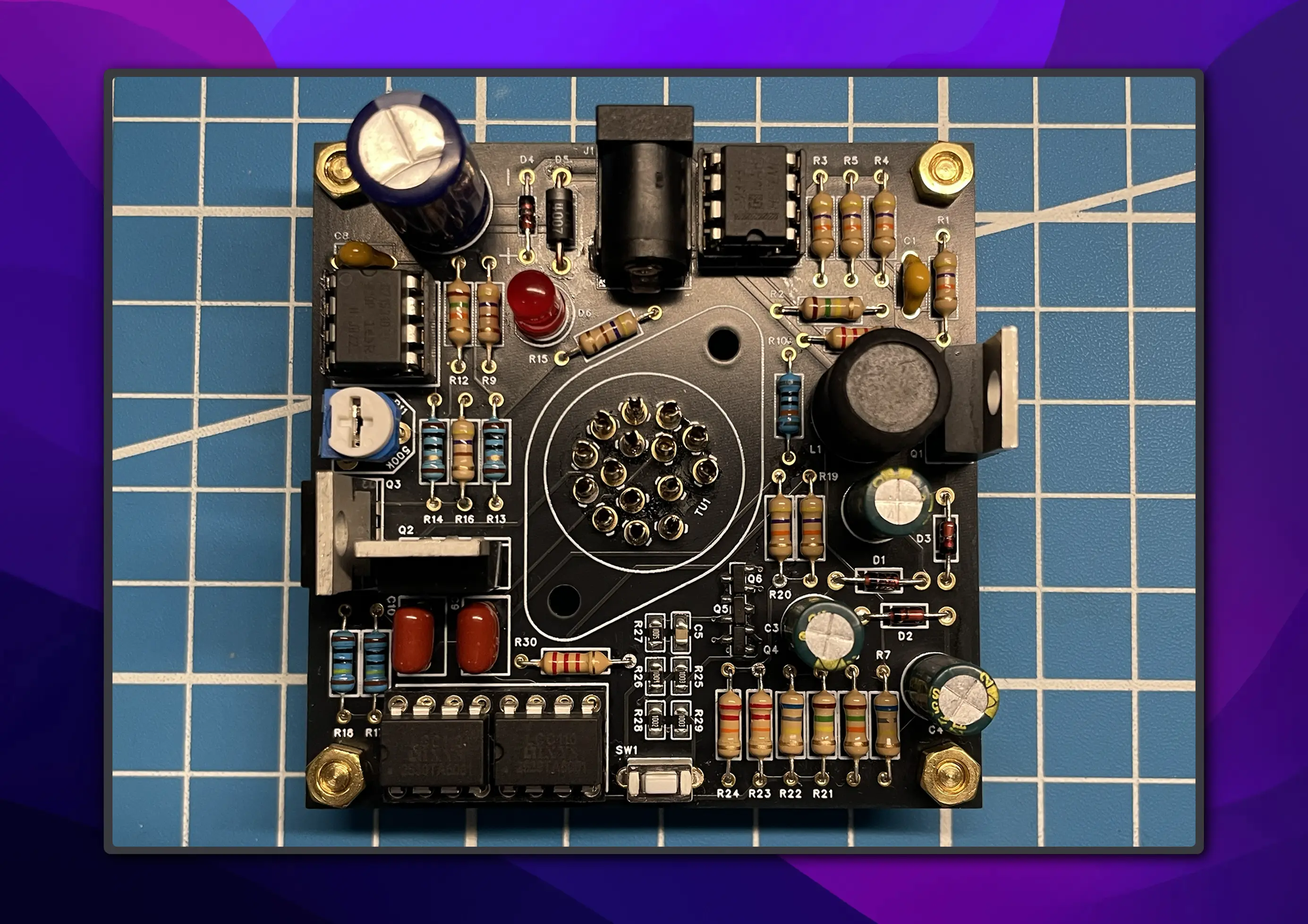
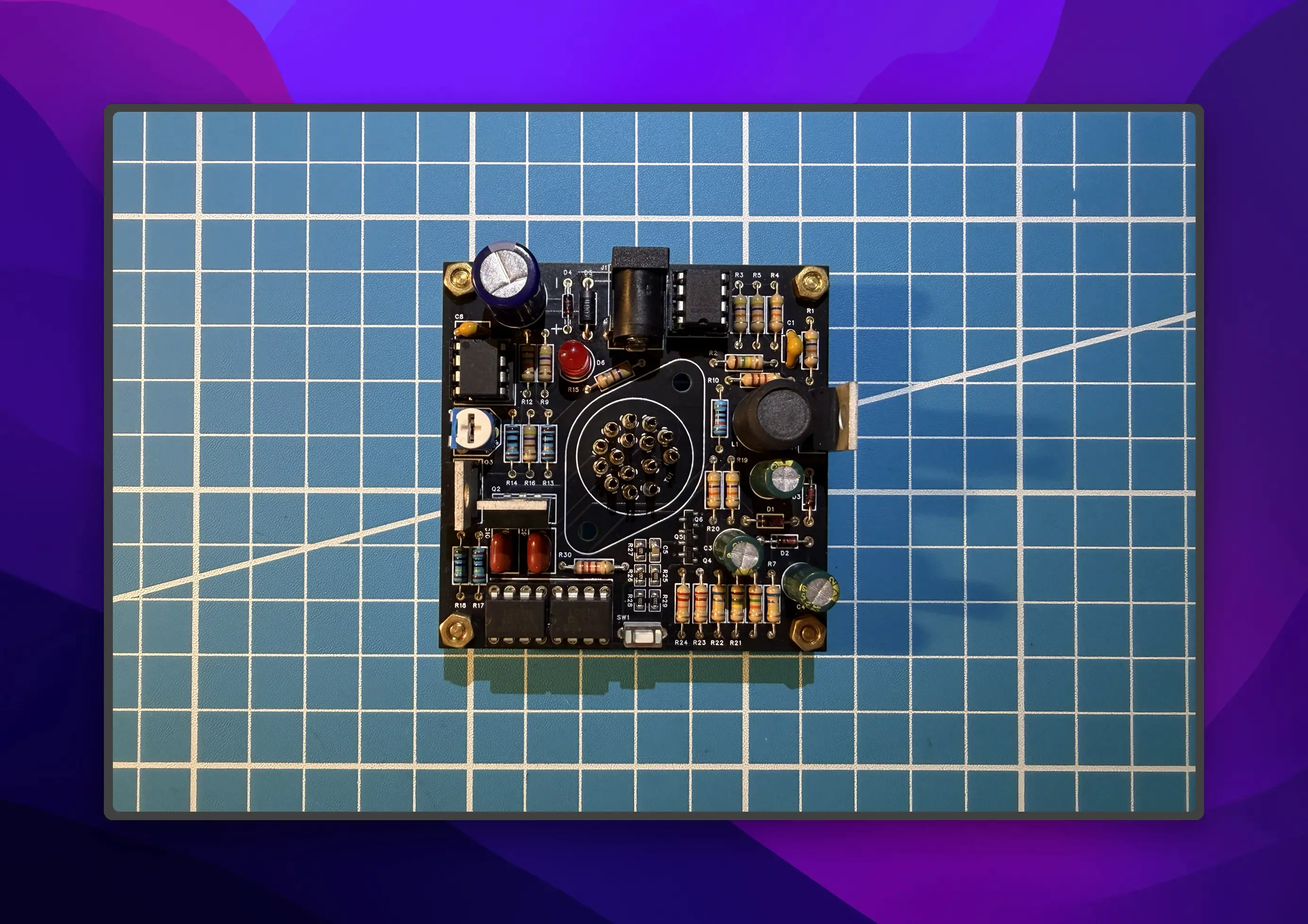
Optimize images

diff --git a/app/work/(project)/dsect/page.tsx b/app/work/(project)/dsect/page.tsx
@@ -62,6 +62,30 @@ export default function Page() {
               嘉立创 EDA
             </div>
           </section>
+          <section className={'flex items-center justify-between'}>
+            <div className={'font-md text-neutral-600 dark:text-neutral-400'}>
+              印制
+            </div>
+            <div className={'text-md flex items-center'}>
+              <picture>
+                <img
+                  alt="JLC logomark"
+                  src="/jlc.svg"
+                  className="!mr-3 dark:hidden"
+                  width="20"
+                  height="20"
+                />
+                <img
+                  alt="JLC logomark"
+                  src="/jlc-dark.svg"
+                  className="!mr-3 hidden dark:block"
+                  width="20"
+                  height="20"
+                />
+              </picture>
+              嘉立创
+            </div>
+          </section>
         </div>
       </section>
       <Image
